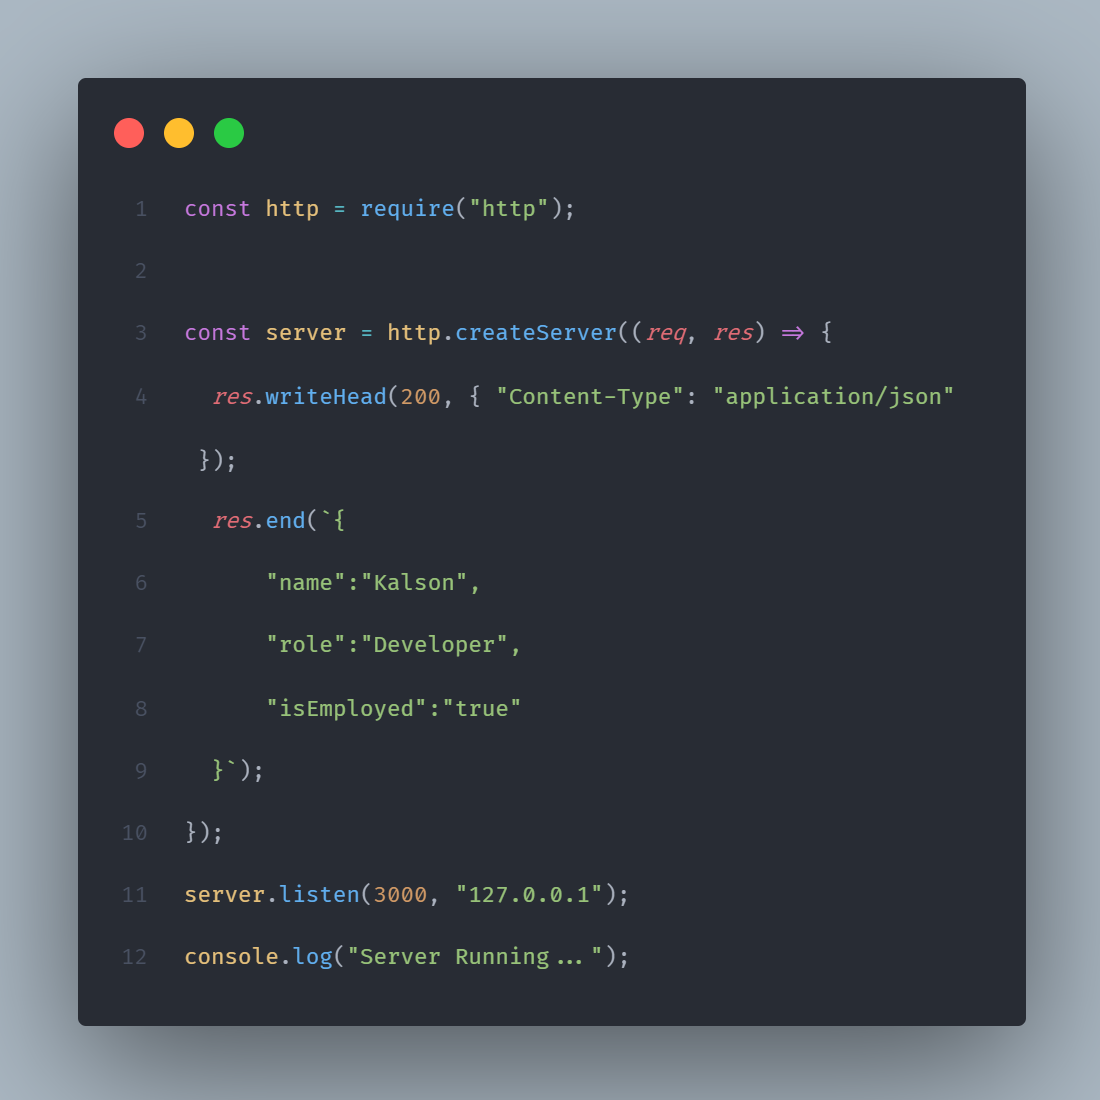
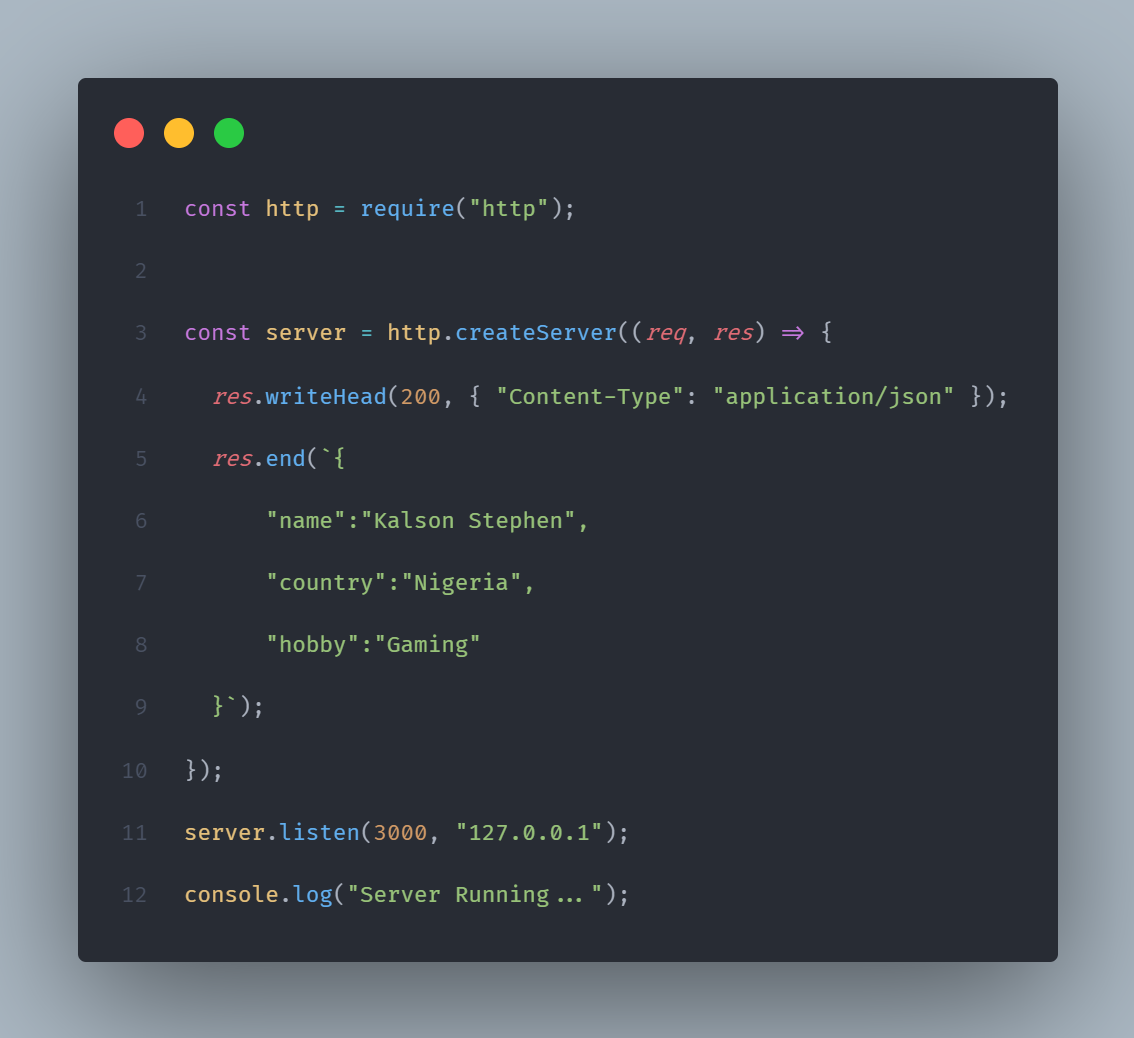
task_answers_images

diff --git a/node-server/server.js b/node-server/server.js
@@ -1,15 +1,12 @@
 const http = require("http");
 
 const server = http.createServer((req, res) => {
-  res.writeHead(200, { "Content-Type": "text/html" });
-  res.end(`
-    <html>
-        <body style="background:black; color:white; text-align:center;">
-                <h1>Node JS Training</h1>
-                <p>Response from Server...</p>
-        </body>
-    </html>
-  `);
+  res.writeHead(200, { "Content-Type": "application/json" });
+  res.end(`{
+      "name":"Kalson Stephen",
+      "country":"Nigeria",
+      "hobby":"Gaming"
+  }`);
 });
 server.listen(3000, "127.0.0.1");
 console.log("Server Running...");
